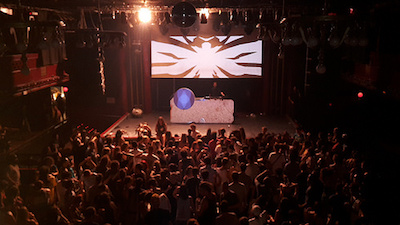
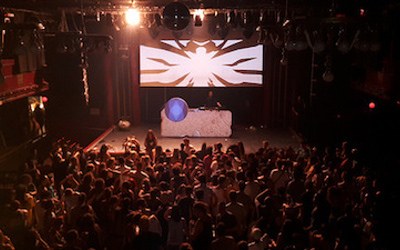
Fablab post

diff --git a/_posts/code/2017-12-22-yolo2-tracker-osc.md b/_posts/code/2017-12-22-yolo2-tracker-osc.md
@@ -12,23 +12,20 @@ image:
 tags: [tracking, publicspace, tool]
 ---
 
-**wip code available** in [github](https://github.com/carlesgutierrez/fachada-yolo2Tracking)
-
 Medialab-Prado [github repository](https://github.com/medialab-prado/RecursosFachada) include executables and Processing clients examples. 
 
-A tool created for Medialab-Prado Facade that aims to offer an interactive controller for specific games using multi-tracking input. Output available by OSC protocol. WIP. Only working in windows So for now.
+This tool aims to offer an multitracking interactive controller for specific games using video input from survailance cameras. OSC protocol available. WIP. Only working in windows So for now.
 
-Bad area ligting has been a big computer visioón issue for a long time. Right now there are several solutions by using other kind of object detections. In this case by using Darknet library ( yolo2 ) that works in GPU so it's capable to geve much more accuware results in real time. 
+It works even for low ligthing profiles. Darknet library ( yolo2 ) computes in GPU graphic card, so it's capable real time aplications. 
 
 <figure class="one">
 	<figcaption>First yolo2Tracking version with a processing client</figcaption>
 	<img src="https://c1.staticflickr.com/5/4484/37764018816_7e16ef2009_z.jpg">
 </figure>
 
-There is a github repositoy where get last version of this tool. Check README and follow instructions. Requires a modern GPU with CUDA libraries such for example Nvidia 1060.
-
+Check gihtub and README. This App require a modern GPU with CUDA libraries such for example Nvidia 1060.
 
 <figure class="one">
-	<figcaption>First yolo2Tracking version with a processing client</figcaption>
-	<img src="https://c1.staticflickr.com/5/4484/37764018816_7e16ef2009_z.jpg">
+	<figcaption>Testing other videos</figcaption>
+	<img src="https://c1.staticflickr.com/5/4484/37764018816_7e16ef2009_z.jpghttps://c1.staticflickr.com/5/4637/27447197199_ab32af468e_z.jpg">
 </figure>
